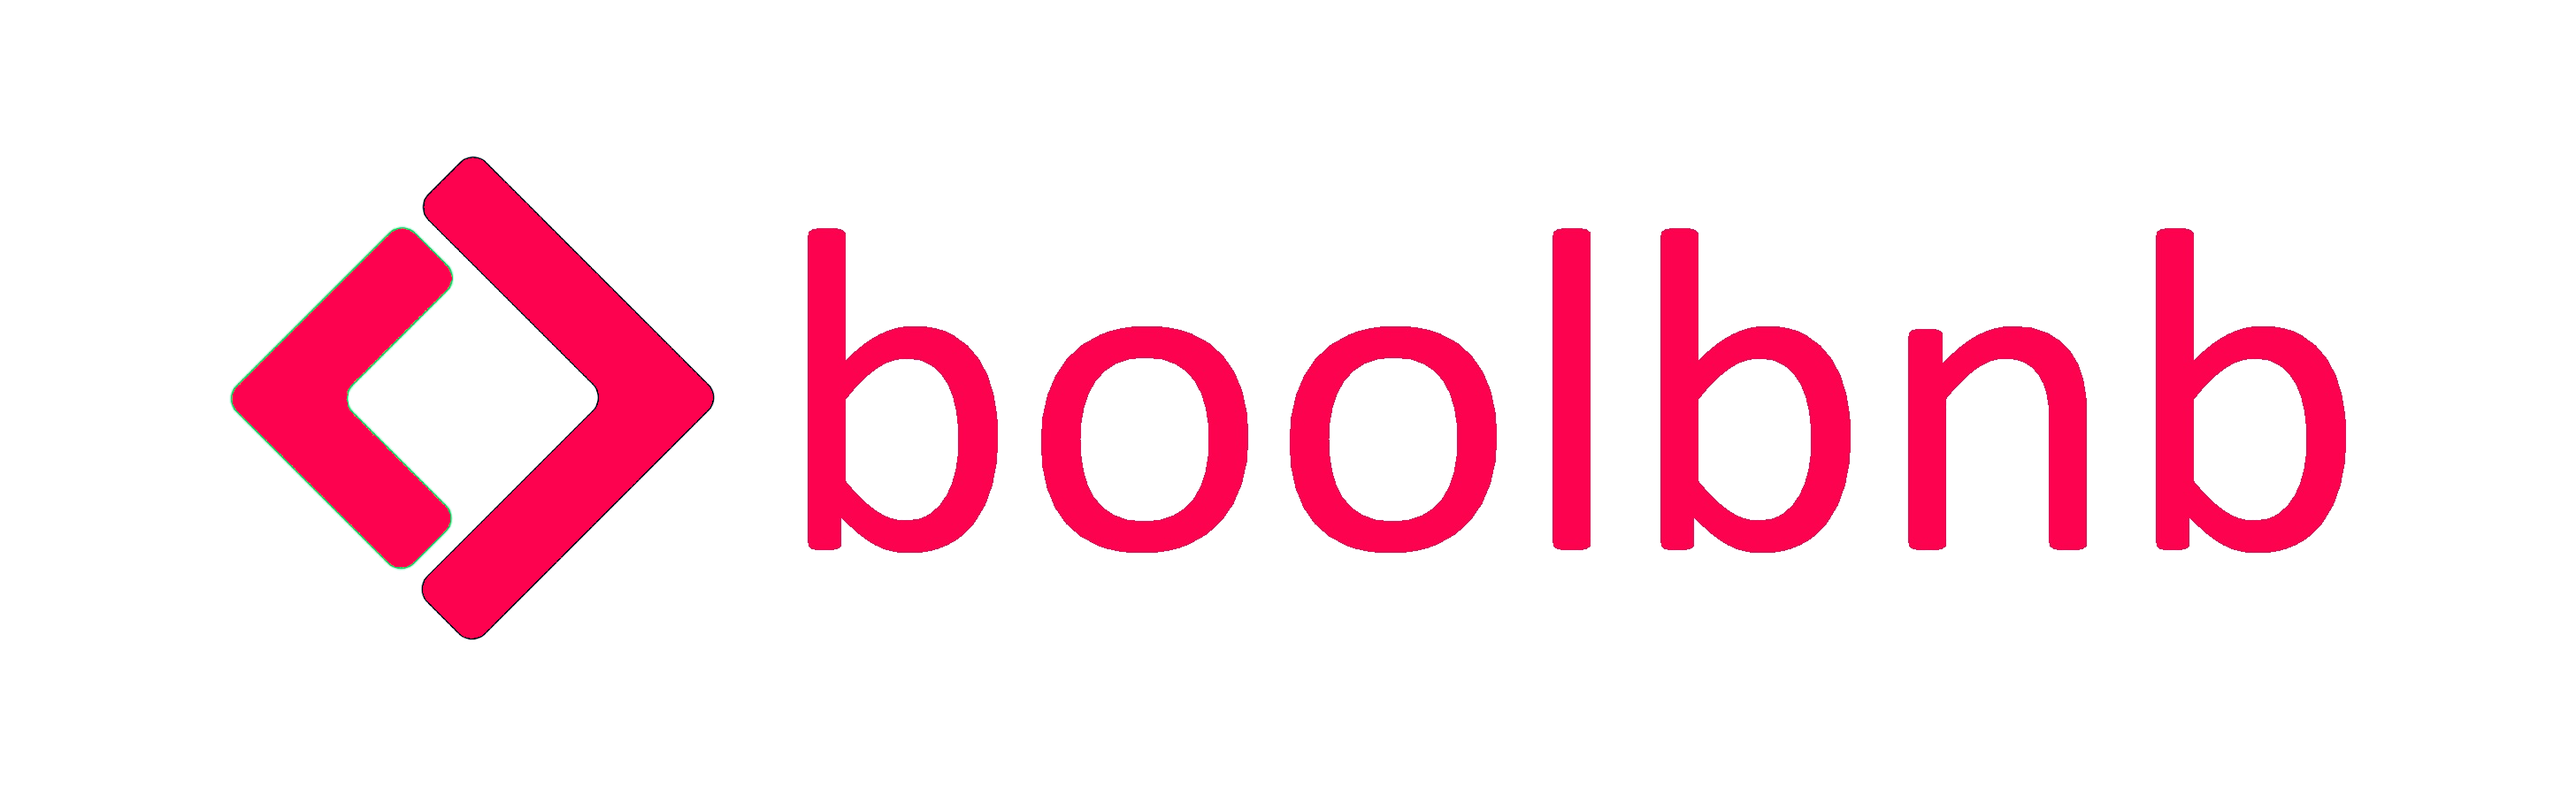
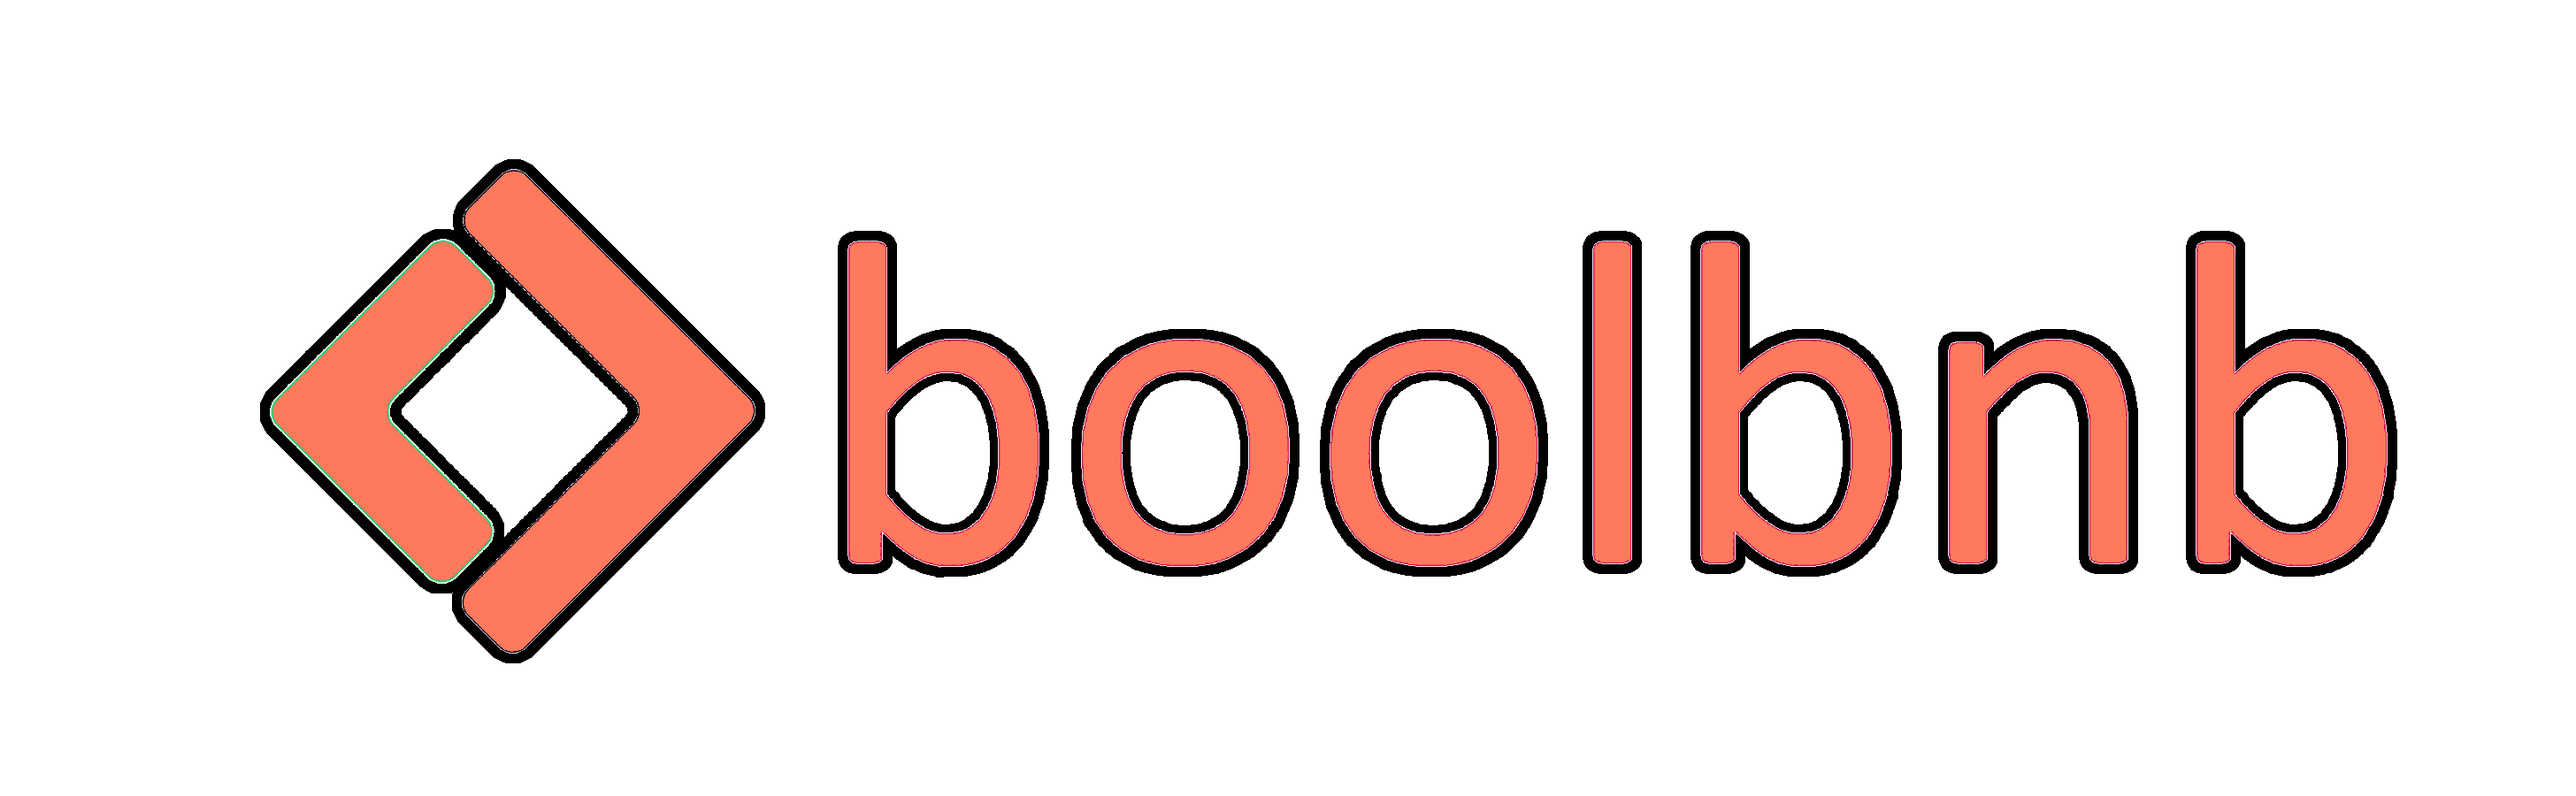
aggiunta img header

Changed region(s): [[0.0938, 0.1867, 0.9375, 0.84]]

diff --git a/resources/views/partials/header.blade.php b/resources/views/partials/header.blade.php
@@ -14,7 +14,7 @@
     <div class="container-fluid">
 
       <div class="logo float-left">
-        <a href="{{ url('/') }}"><img src={{ asset('./img/logo.png') }} alt="" class="img-fluid"></a>
+        <a href="{{ url('/') }}"><img src={{ asset('./img/stemma.png') }} alt="" class="img-fluid"></a>
       </div>
 
       <button type="button" class="nav-toggle"><i class="fas fa-bars fa-1x"></i>
